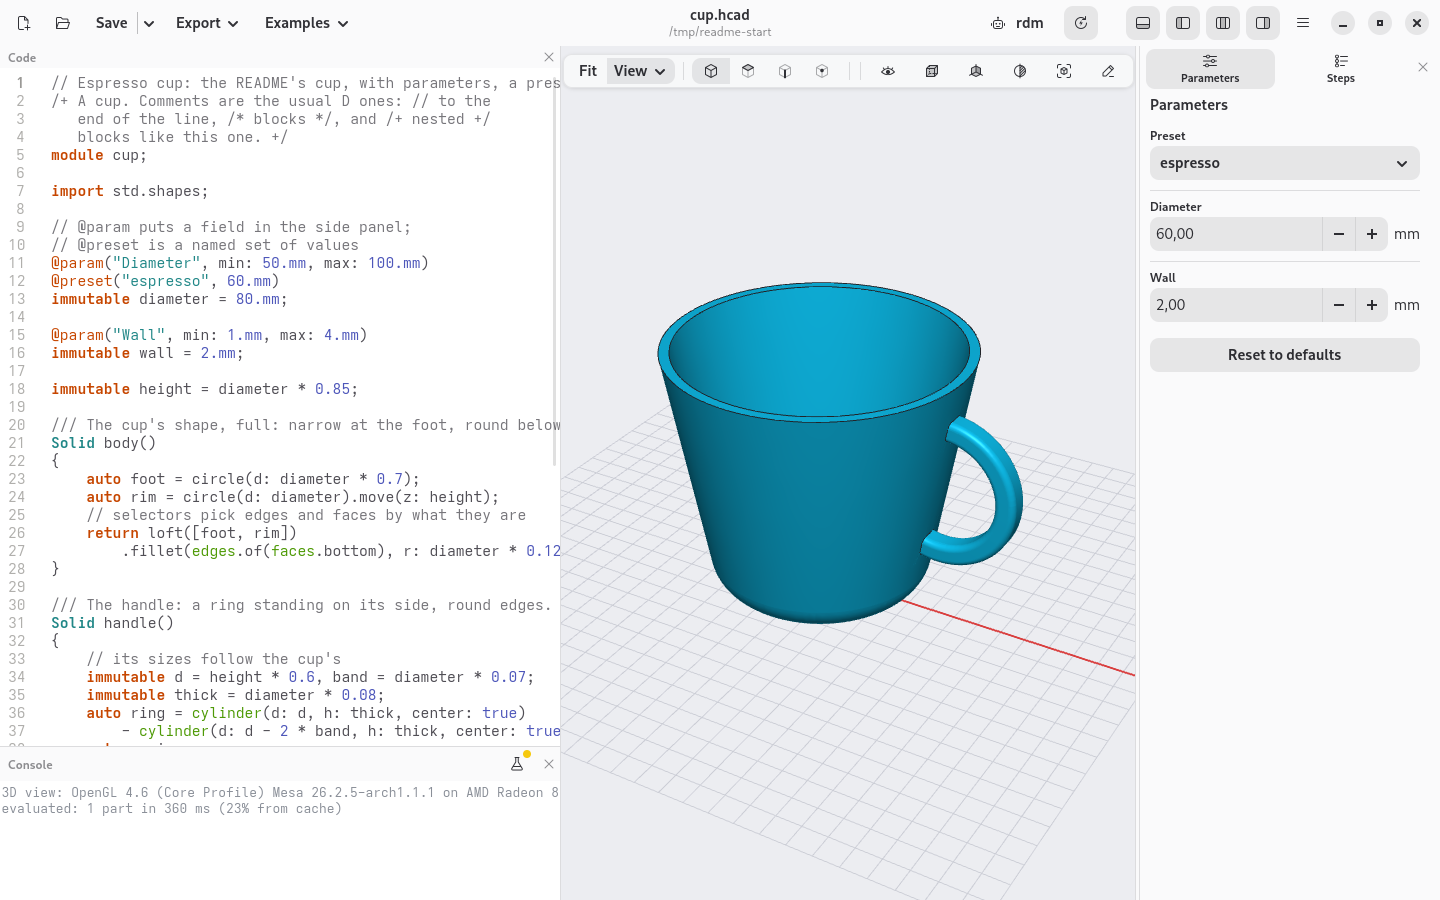
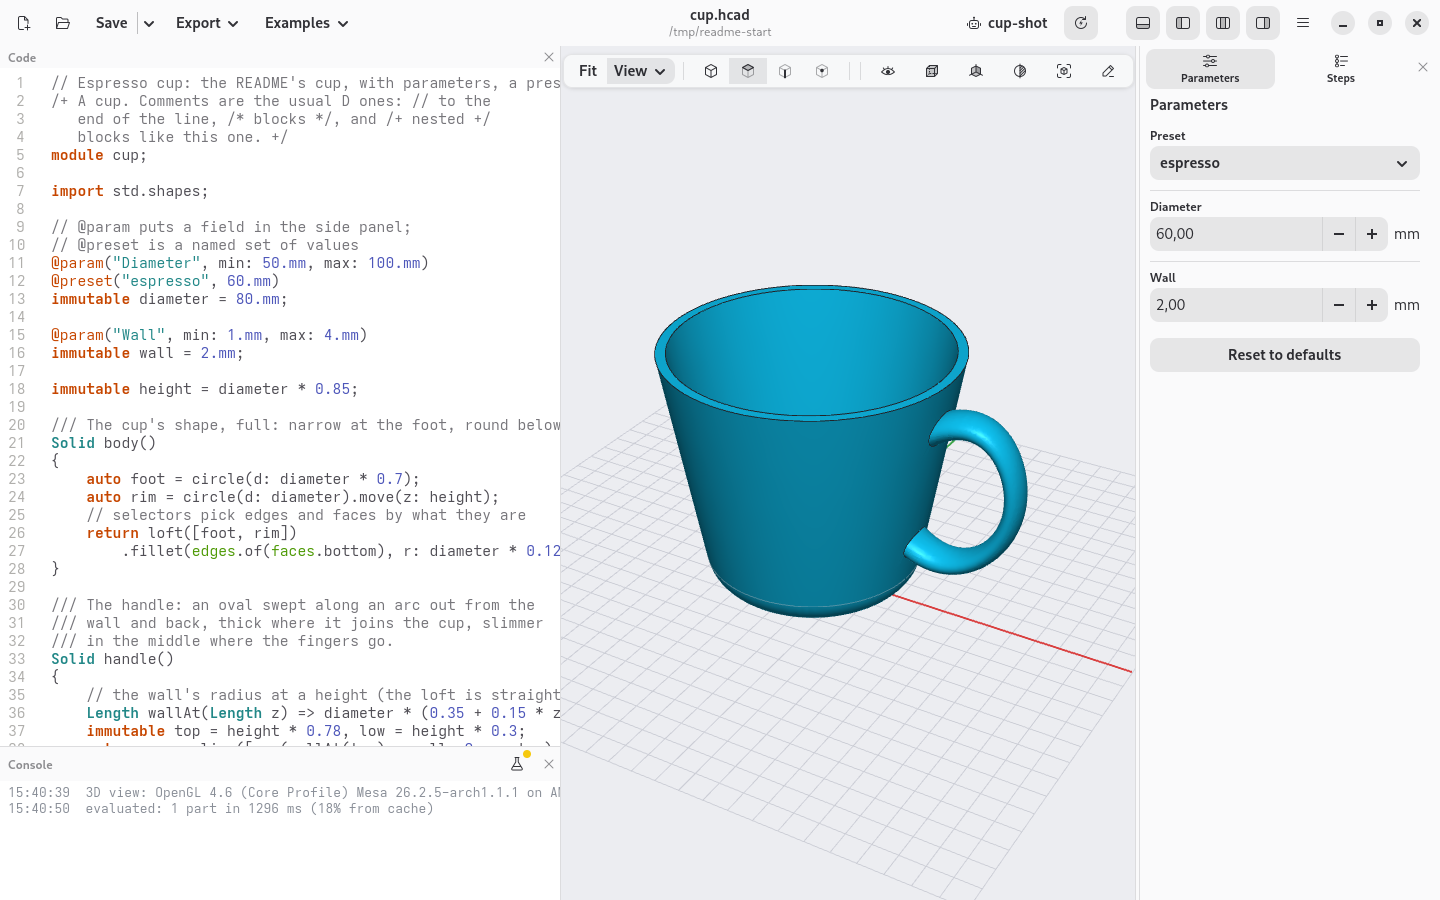
Cup handle: an oval swept along an arc, slimmer in the middle

diff --git a/README.md b/README.md
@@ -128,18 +128,21 @@ Solid body()
         .fillet(edges.of(faces.bottom), r: diameter * 0.12);
 }
 
-/// The handle: a ring standing on its side, round edges.
+/// The handle: an oval swept along an arc out from the
+/// wall and back, thick where it joins the cup, slimmer
+/// in the middle where the fingers go.
 Solid handle()
 {
-    // its sizes follow the cup's
-    immutable d = height * 0.6, band = diameter * 0.07;
-    immutable thick = diameter * 0.08;
-    auto ring = cylinder(d: d, h: thick, center: true)
-        - cylinder(d: d - 2 * band, h: thick, center: true);
-    return ring
-        .fillet(edges.circles, r: diameter * 0.02)
-        .rotate(x: 90)
-        .move(x: diameter * 0.45, z: height * 0.55);
+    // the wall's radius at a height (the loft is straight)
+    Length wallAt(Length z) => diameter * (0.35 + 0.15 * z / height);
+    immutable top = height * 0.78, low = height * 0.3;
+    auto arc = spline([vec(wallAt(top) - wall, 0.mm, top),
+        vec(wallAt(top) + diameter * 0.2, 0.mm, top + height * 0.02),
+        vec(wallAt(height * 0.55) + diameter * 0.3, 0.mm, height * 0.55),
+        vec(wallAt(low) + diameter * 0.17, 0.mm, low - height * 0.04),
+        vec(wallAt(low) - wall, 0.mm, low)]);
+    return ellipse(rx: diameter * 0.075, ry: diameter * 0.045)
+        .sweep(arc, scale: t => 1 - 0.3 * sin(t * 180.deg));
 }
 
 // @part: a body to show and export (one object in 3MF)
